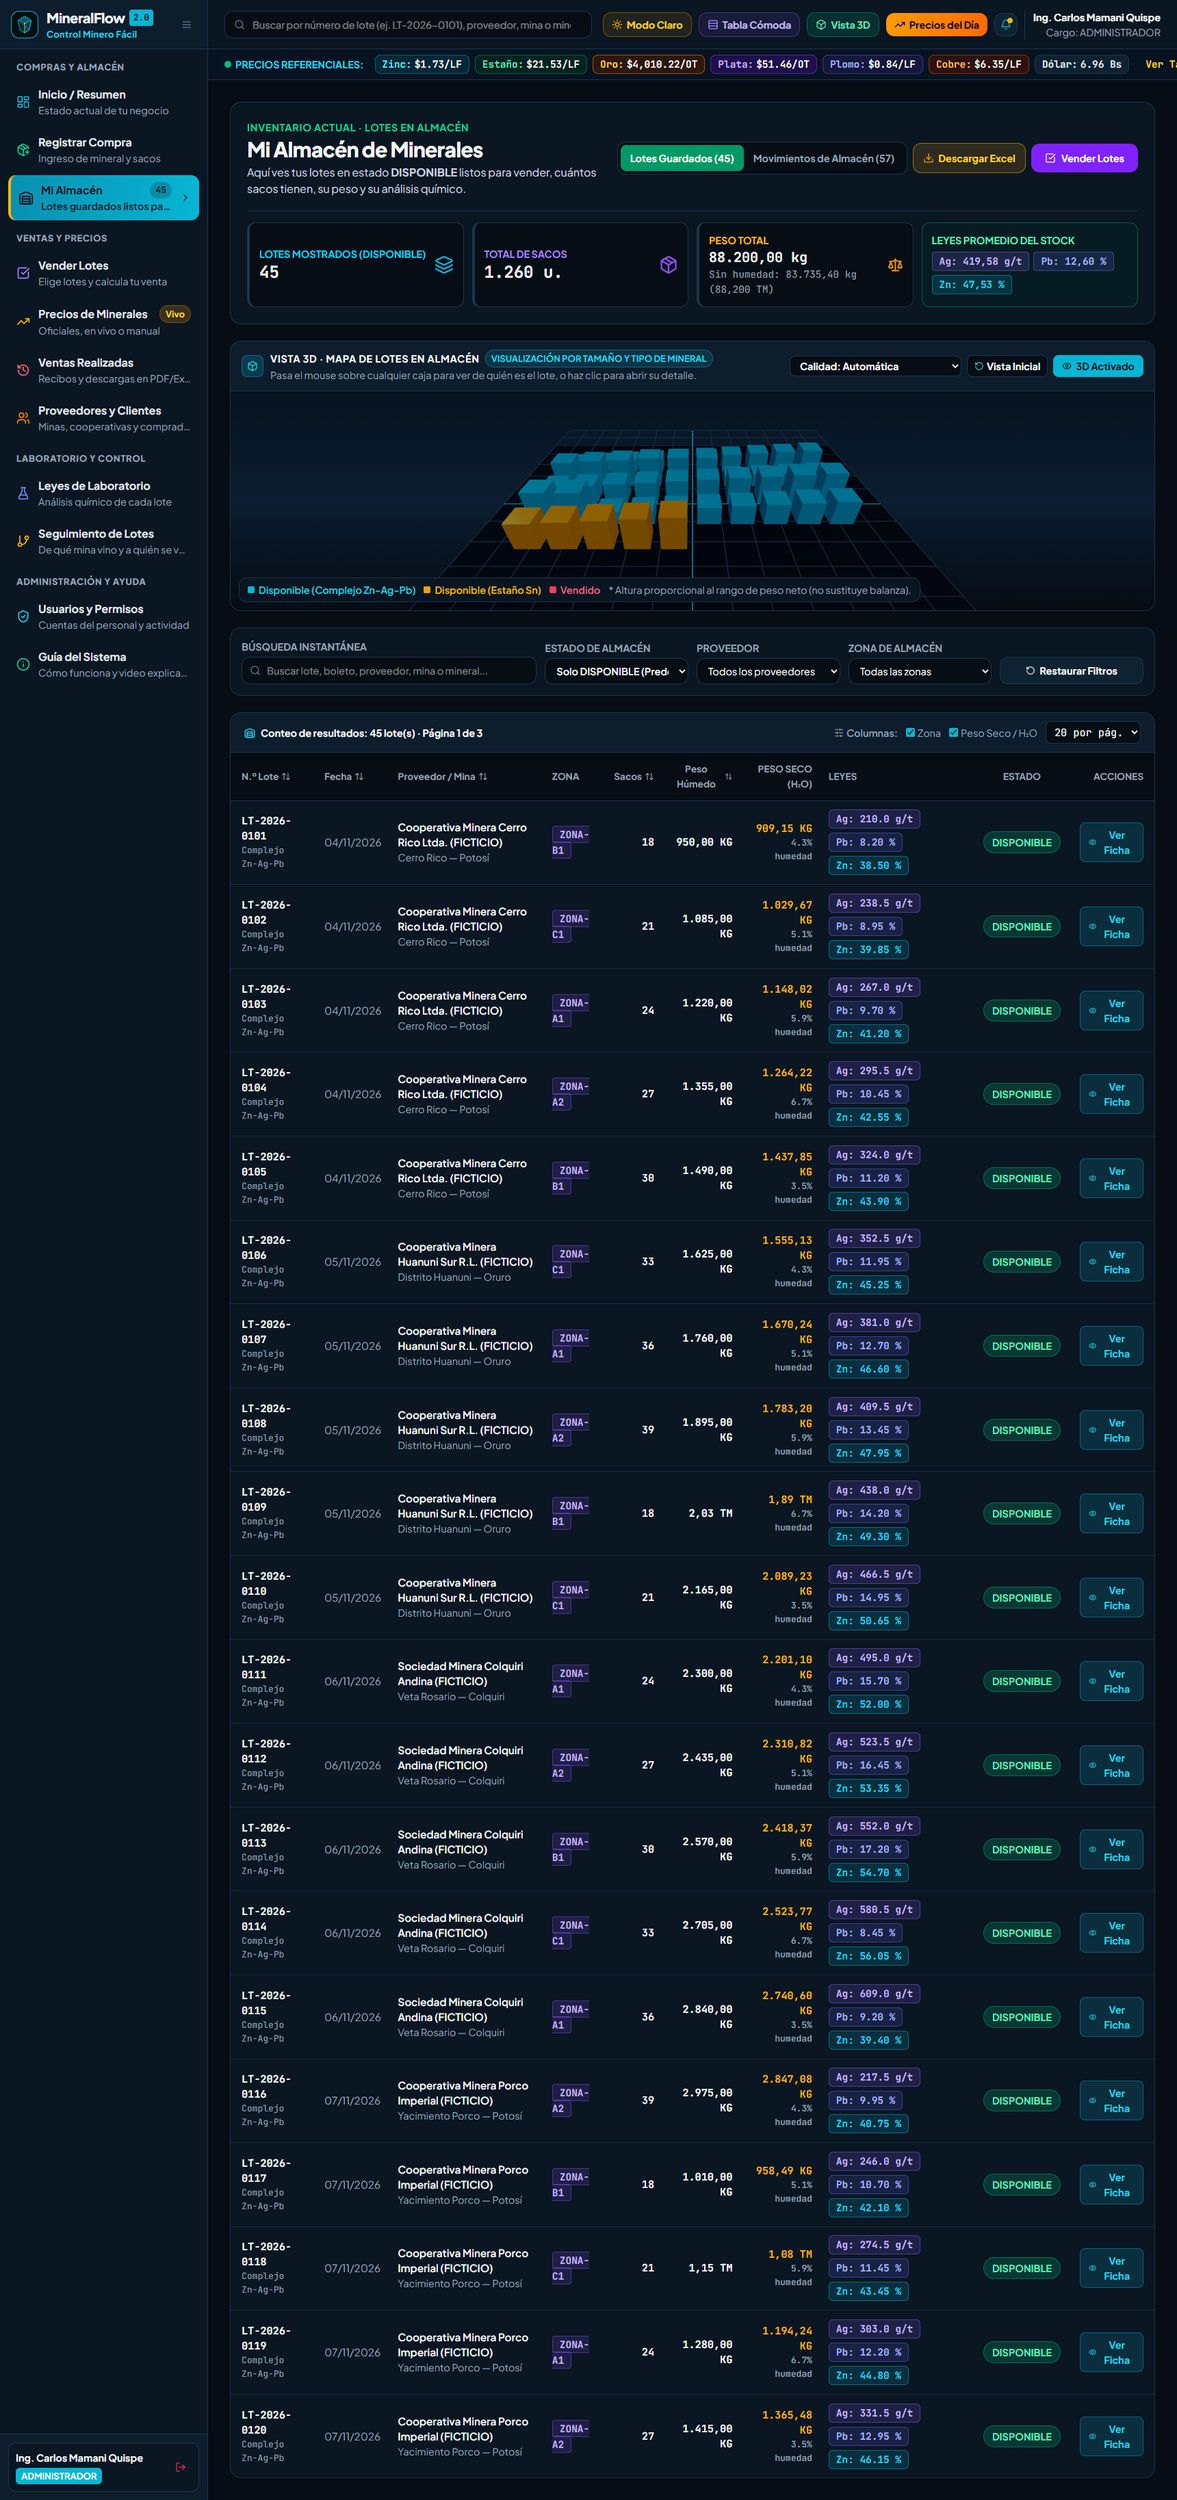
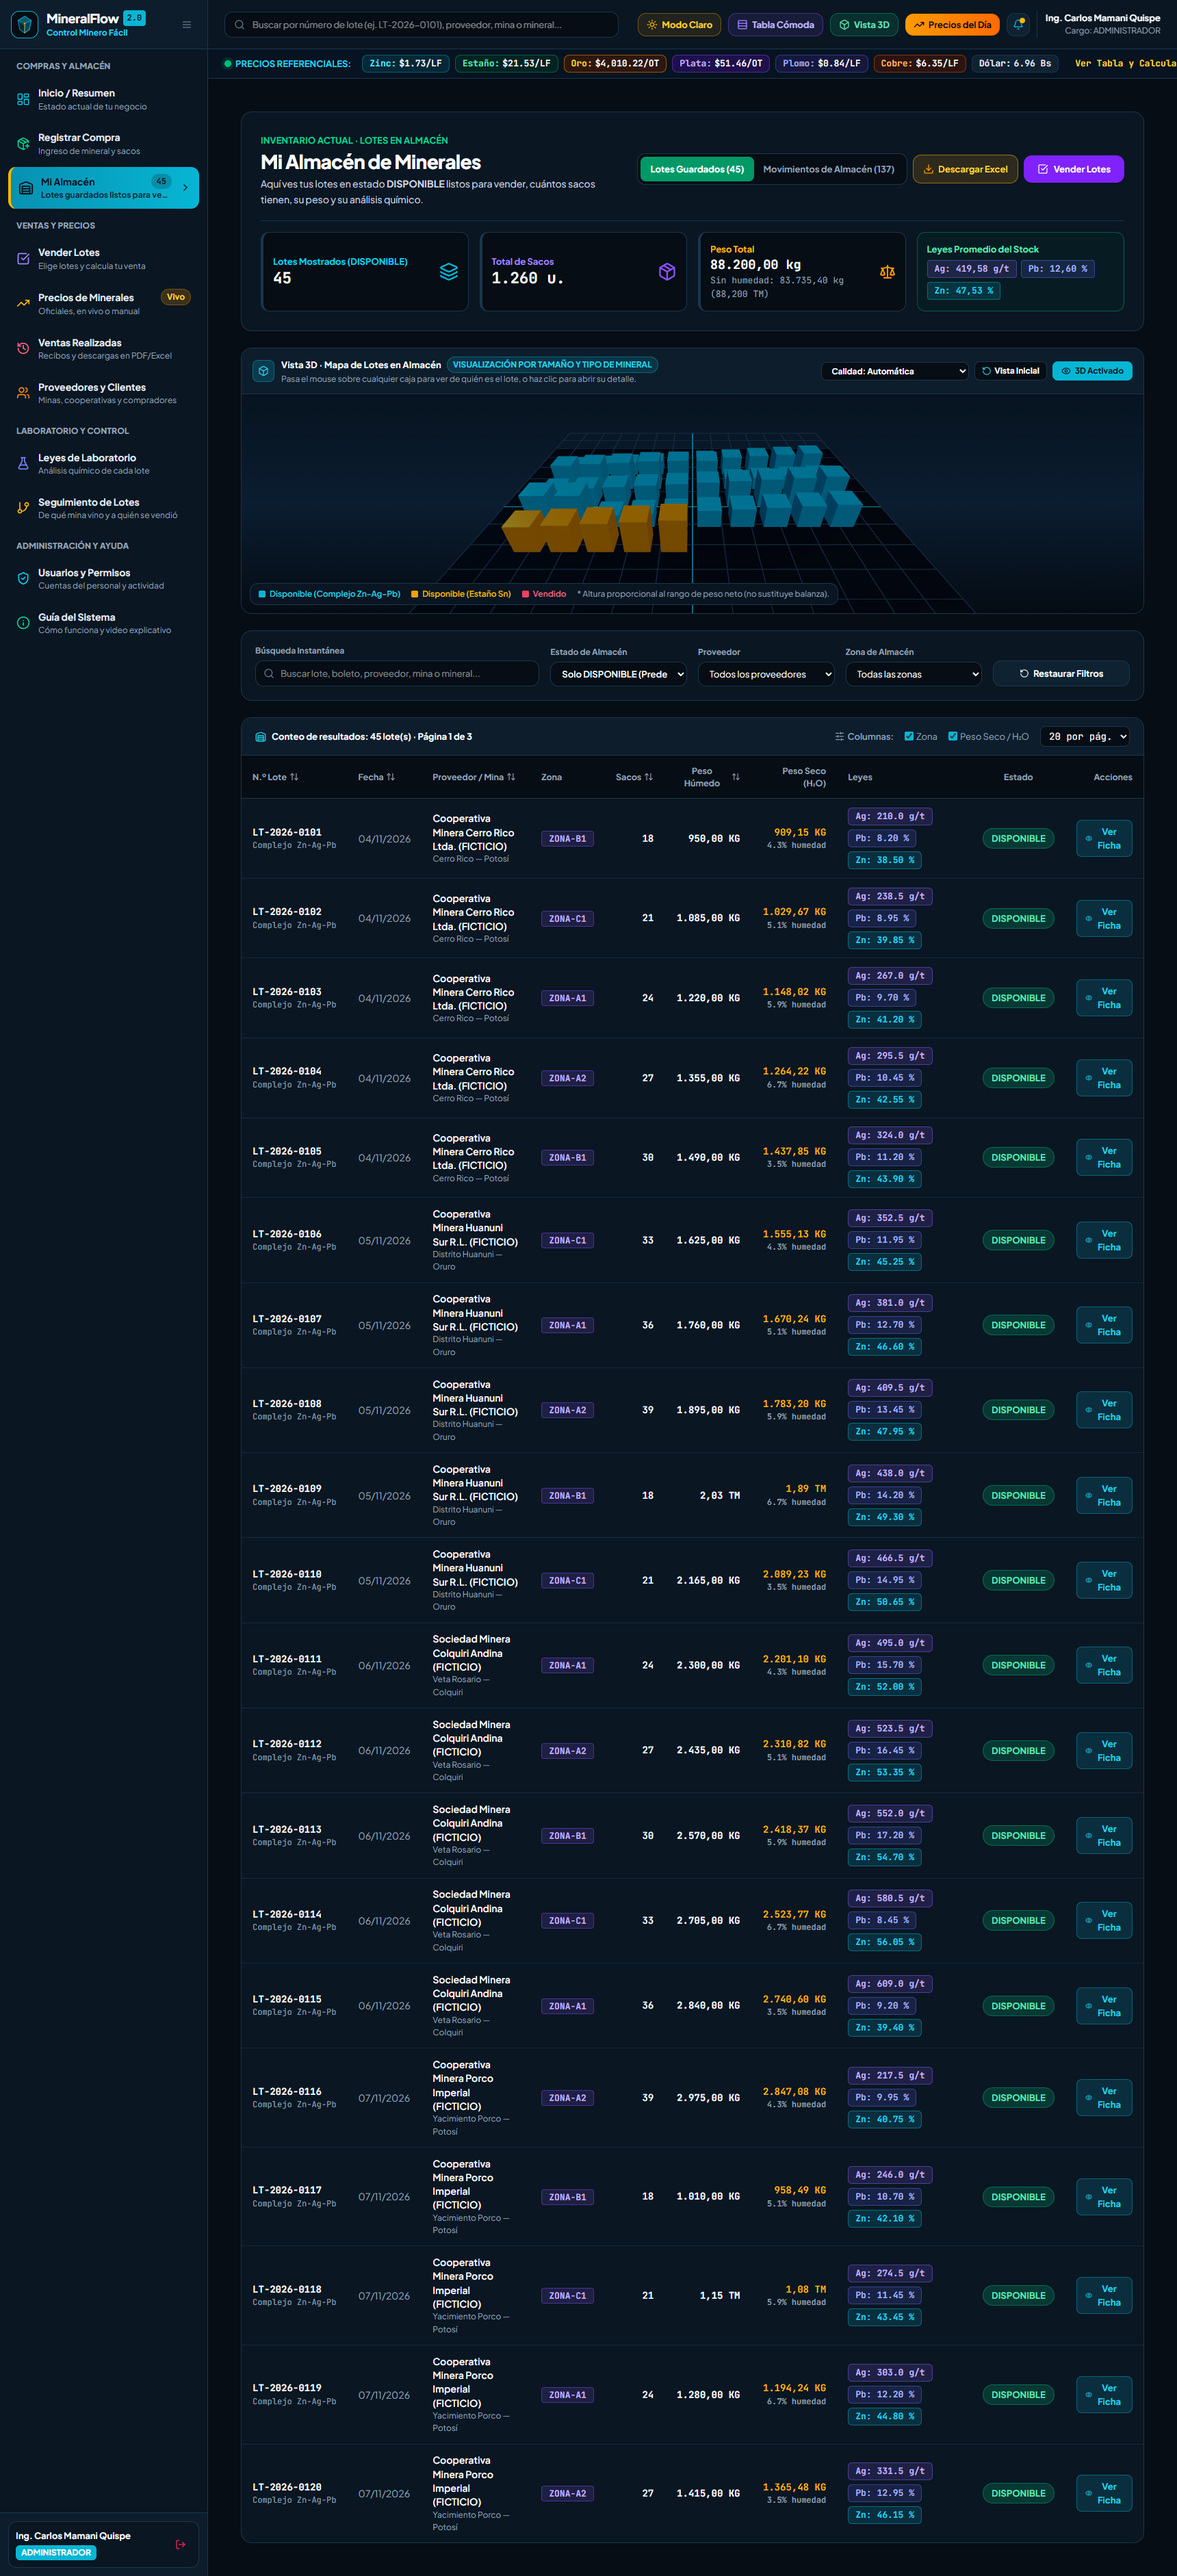
ui: tipografia moderada, mas espacio y menos saturacion visual

diff --git a/frontend/src/index.css b/frontend/src/index.css
@@ -87,43 +87,82 @@
 }
 
 /* Escala Tipográfica Amigable y Legible para el Cliente (Cero Letras Diminutas) */
+/* Escala moderada: legible pero sin letras gigantes */
 .text-\[9px\],
-.text-\[10px\] {
+.text-\[10px\],
+.text-\[11px\] {
+  font-size: 0.75rem !important;
+  line-height: 1.15rem !important;
+}
+
+.text-xs {
   font-size: 0.8125rem !important;
   line-height: 1.25rem !important;
 }
 
-.text-\[11px\],
-.text-xs {
-  font-size: 0.9rem !important;
-  line-height: 1.375rem !important;
-}
-
 .text-sm {
-  font-size: 1rem !important;
-  line-height: 1.5rem !important;
+  font-size: 0.875rem !important;
+  line-height: 1.4rem !important;
 }
 
 .text-base {
-  font-size: 1.08rem !important;
-  line-height: 1.6rem !important;
+  font-size: 0.95rem !important;
+  line-height: 1.5rem !important;
 }
 
+.text-lg { font-size: 1.05rem !important; line-height: 1.5rem !important; }
+.text-xl { font-size: 1.15rem !important; line-height: 1.6rem !important; }
+.text-2xl { font-size: 1.4rem !important; line-height: 1.8rem !important; }
+.text-3xl { font-size: 1.65rem !important; line-height: 2.1rem !important; }
+.text-4xl { font-size: 2rem !important; line-height: 2.4rem !important; }
+.text-5xl { font-size: 2.4rem !important; line-height: 2.8rem !important; }
+@media (min-width: 640px) {
+  .sm\:text-2xl { font-size: 1.5rem !important; line-height: 1.9rem !important; }
+  .sm\:text-3xl { font-size: 1.75rem !important; line-height: 2.2rem !important; }
+  .sm\:text-5xl { font-size: 2.6rem !important; line-height: 3rem !important; }
+  .sm\:text-base { font-size: 0.95rem !important; }
+}
+
+/* Etiquetas: sin mayúsculas forzadas ni espaciado exagerado */
+.uppercase { text-transform: none !important; }
+.tracking-wider, .tracking-widest, .tracking-wide { letter-spacing: 0.01em !important; }
+
 table th {
-  font-size: 0.85rem !important;
-  padding-top: 0.85rem !important;
-  padding-bottom: 0.85rem !important;
+  font-size: 0.78rem !important;
+  padding-top: 1rem !important;
+  padding-bottom: 1rem !important;
+  padding-left: 1rem !important;
+  padding-right: 1rem !important;
 }
 
 table td {
-  font-size: 0.95rem !important;
+  font-size: 0.875rem !important;
+  padding-left: 1rem !important;
+  padding-right: 1rem !important;
+  line-height: 1.45 !important;
 }
 
 input,
 select,
 textarea {
-  font-size: 0.95rem !important;
+  font-size: 0.875rem !important;
 }
+
+table td .font-mono-num, table td.font-mono-num, table td .font-mono { white-space: nowrap; }
+table td, table th { vertical-align: middle; }
+
+/* Más aire: menos saturación visual */
+main > div > .space-y-6 > * + * { margin-top: 2.25rem !important; }
+main .space-y-6 { --tw-space-y-reverse: 0; }
+main .gap-3 { gap: 1rem !important; }
+main .gap-4 { gap: 1.5rem !important; }
+main .gap-5 { gap: 1.75rem !important; }
+main .gap-6 { gap: 2rem !important; }
+main .p-4 { padding: 1.25rem !important; }
+main .p-5 { padding: 1.5rem !important; }
+main .p-6 { padding: 1.75rem !important; }
+main .rounded-2xl { border-radius: 1rem; }
+main p { max-width: 75ch; }
 
 /* Badges Semánticos por Mineral y Estado */
 .badge-mineral-au {

diff --git a/frontend/src/pages/DashboardPage.tsx b/frontend/src/pages/DashboardPage.tsx
@@ -328,46 +328,6 @@ export function DashboardPage() {
         </div>
       </div>
 
-      {/* Cinta de Avisos con Colores Diferenciados (Esmeralda, Ámbar y Violeta) */}
-      <div className="grid grid-cols-1 md:grid-cols-3 gap-4">
-        {alertas.map((al: any, idx: number) => {
-          const estilosCard =
-            idx === 0
-              ? 'border-l-4 border-l-emerald-500 hover:border-emerald-400'
-              : idx === 1
-              ? 'border-l-4 border-l-amber-500 hover:border-amber-400'
-              : 'border-l-4 border-l-violet-500 hover:border-violet-400';
-          const estilosIcono =
-            idx === 0
-              ? 'bg-emerald-500/15 text-emerald-500'
-              : idx === 1
-              ? 'bg-amber-500/15 text-amber-500'
-              : 'bg-violet-500/15 text-violet-500';
-          return (
-            <button
-              key={al.id}
-              type="button"
-              onClick={() => navigate(al.ruta)}
-              className={`bg-white dark:bg-[#0A1622] border border-[#CBD5E1] dark:border-[#1A364E] ${estilosCard} rounded-2xl p-4 text-left flex items-start gap-3 transition shadow-sm`}
-            >
-              <div className={`w-10 h-10 rounded-xl flex items-center justify-center shrink-0 mt-0.5 ${estilosIcono}`}>
-                {al.severidad === 'ADVERTENCIA' ? (
-                  <AlertTriangle className="w-5 h-5" />
-                ) : al.id === 'AL-M02' ? (
-                  <FileCheck2 className="w-5 h-5" />
-                ) : (
-                  <ShieldCheck className="w-5 h-5" />
-                )}
-              </div>
-              <div className="min-w-0">
-                <div className="text-xs font-bold text-[#0F172A] dark:text-[#F8FAFC]">{al.titulo}</div>
-                <div className="text-xs text-[#64748B] dark:text-[#94A3B8] mt-0.5">{al.detalle}</div>
-              </div>
-            </button>
-          );
-        })}
-      </div>
-
       {/* Gráficos Analíticos Multicolor */}
       <div className="grid grid-cols-1 lg:grid-cols-12 gap-6">
         <div className="lg:col-span-8 bg-white dark:bg-[#0A1622] border border-[#CBD5E1] dark:border-[#1A364E] rounded-2xl p-5 shadow-sm transition-colors">
@@ -529,7 +489,7 @@ export function DashboardPage() {
       </div>
 
       {/* Tablas de Actividad Reciente con Nombres Completos y Estado M-02 */}
-      <div className="grid grid-cols-1 lg:grid-cols-2 gap-6">
+      <div className="grid grid-cols-1 gap-8">
         <div className="bg-white dark:bg-[#0A1622] border border-[#CBD5E1] dark:border-[#1A364E] rounded-2xl p-5 shadow-sm transition-colors">
           <div className="flex items-center justify-between mb-4">
             <div>

diff --git a/backend/scripts/reset_lots.ts b/backend/scripts/reset_lots.ts
@@ -14,6 +14,19 @@ async function main() {
   });
   console.log(`Deleted ${deletedDetalles.count} DetalleVenta for test lots.`);
 
+  // Eliminar ventas huérfanas (sin detalle) creadas por pruebas E2E previas
+  const huerfanas = await prisma.venta.findMany({
+    where: { detalles: { none: {} } },
+    select: { id: true },
+  });
+  const ventaIds = huerfanas.map((v) => v.id);
+  if (ventaIds.length) {
+    await prisma.resumenLeyVenta.deleteMany({ where: { ventaId: { in: ventaIds } } });
+    await prisma.documentoCumplimiento.deleteMany({ where: { ventaId: { in: ventaIds } } });
+    await prisma.venta.deleteMany({ where: { id: { in: ventaIds } } });
+  }
+  console.log(`Deleted ${ventaIds.length} orphan ventas.`);
+
   // Actualizar estado de los lotes a DISPONIBLE
   const updatedLotes = await prisma.lote.updateMany({
     where: { id: { in: ids } },

diff --git a/frontend/src/components/AppLayout.tsx b/frontend/src/components/AppLayout.tsx
@@ -571,7 +571,7 @@ export function AppLayout({ children }: { children: React.ReactNode }) {
           </div>
         </div>
 
-        <main className="flex-1 p-4 sm:p-6 lg:p-8 max-w-[1720px] w-full mx-auto">
+        <main className="flex-1 p-5 sm:p-8 lg:p-12 max-w-[1560px] w-full mx-auto">
           {children}
         </main>
       </div>
